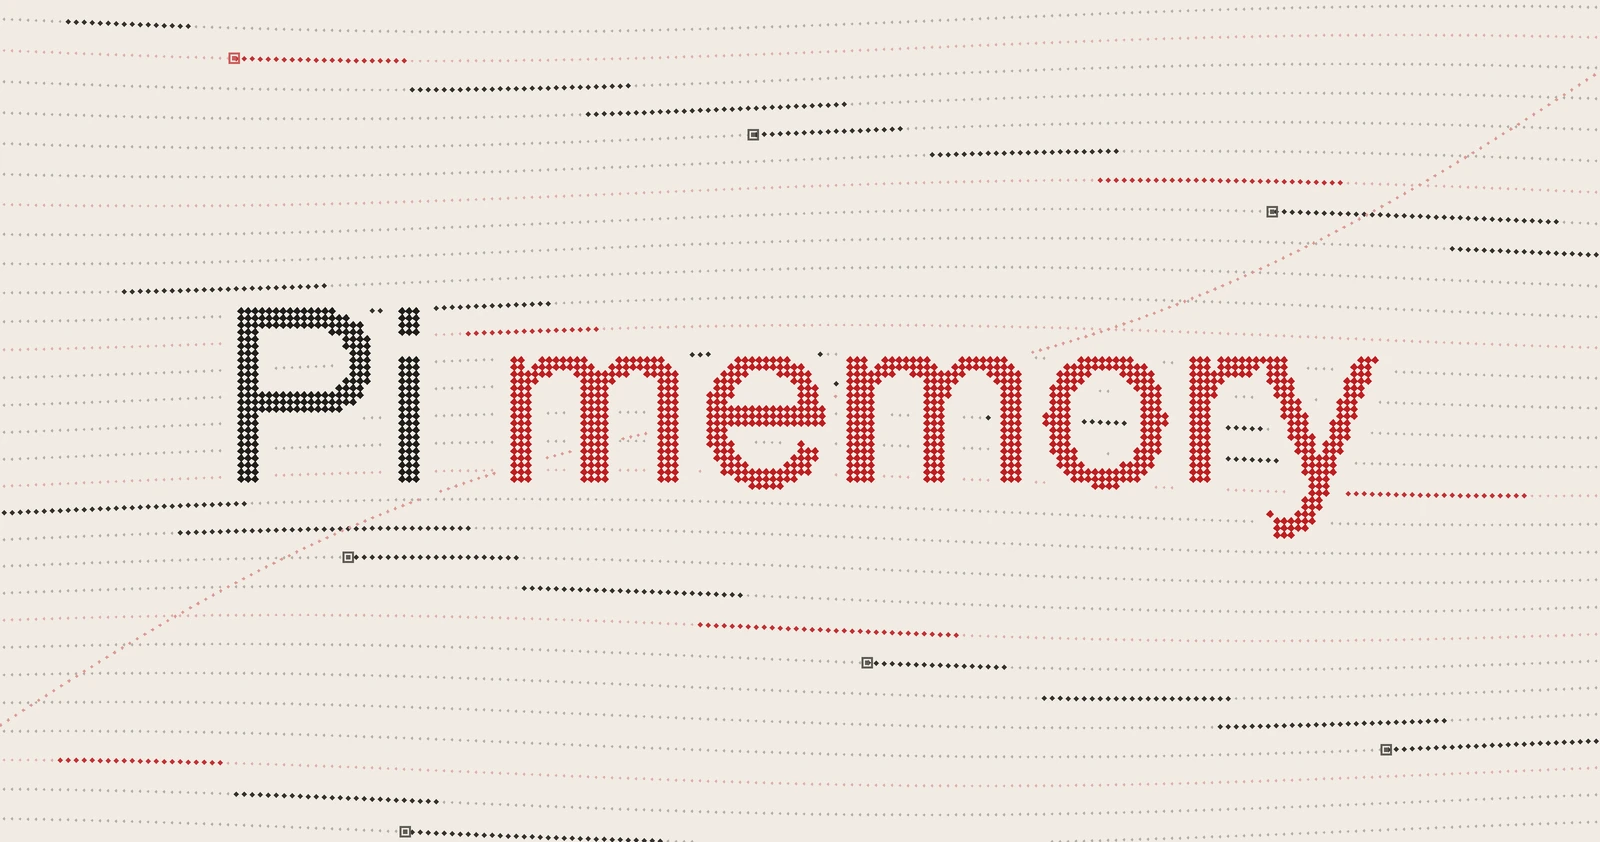
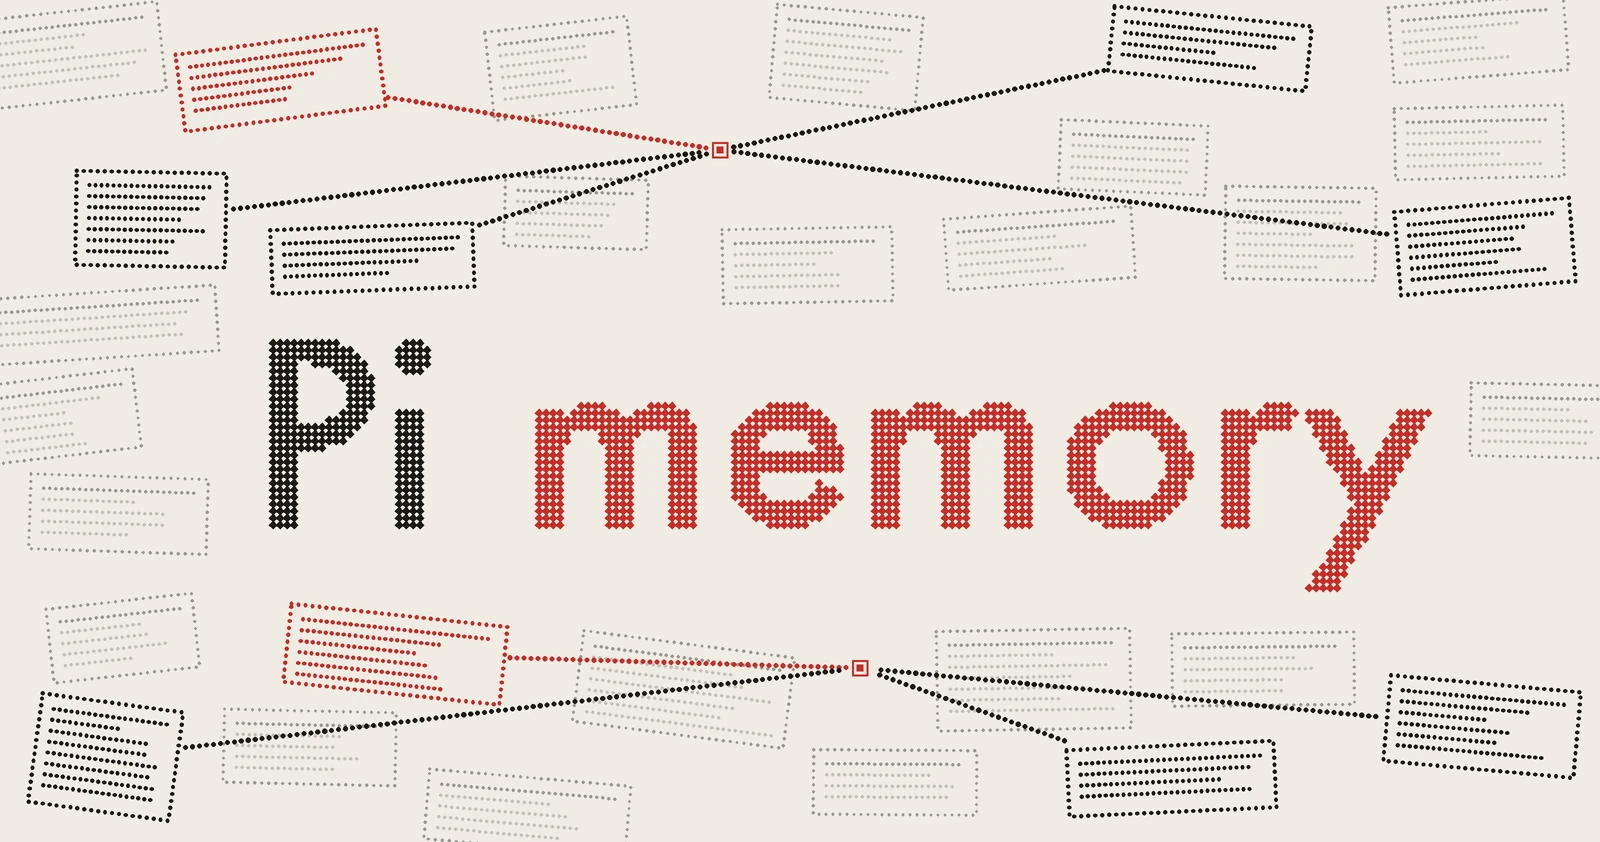
Projects: distinct covers for Outreach CRM and Pi memory
Both reused the horizontal dotted-rule background of the cu25 and QuickFi
banners. Same style (cream, diamond-dot Futura wordmark, ink/red/grey,
square markers), new designs:

- Outreach: dashed rings radiate from the "o"; red dotted lines run out to
  answered contacts, ink lines to ones still waiting.
- Pi memory: large tilted index cards; two query points, one above the word
  and one below, each returning its own records, the strongest in red.

Same 1600x842 WebP at the same paths, so no code change.

diff --git a/tasks/outreach-crm-post.md b/tasks/outreach-crm-post.md
@@ -50,6 +50,22 @@ in `src/lib/work.ts`, illustrated only with the CRM's demo workspace. No persona
   Branch `outreach-crm-meeting-brief`. Verified: tsc, lint, build; section renders and shows in
   the page contents.
 
+- 2026-10-28: Morgan asked for more distinct covers on outreach-crm and pi-memory. Both reused the
+  horizontal dotted-rule background of `cu25 reckon` and QuickFi. Kept the wordmarks, palette and
+  diamond dots; new backgrounds: outreach is a contact network, with red paths reaching out to
+  checked contacts, and pi-memory is a memory lattice of record blocks, with a topic index on the
+  left and dotted recall paths into the hit records. Same 1600×842 WebP at the same paths, so no
+  code change. Rendered with a throwaway PIL script (Futura Medium, seeded), kept out of the repo.
+- 2026-10-28: Morgan asked for options. Showed three motifs per cover (outreach: network, signal,
+  pipeline; pi-memory: lattice, index cards, session timeline), then three takes on the chosen
+  "signal" and "index cards" motifs. Final picks, installed at the same paths:
+  - outreach: dashed rings radiate from the "o"; red dotted lines run out to answered contacts
+    (checked squares), ink lines to ones still waiting, grey squares for the rest.
+  - pi-memory: large tilted index cards (dotted outline, title line, ragged text lines); two red
+    query squares, one above the word and one below, each returning its own set of cards, the
+    strongest in red and the rest in ink. Morgan asked for the second web after seeing one.
+  Same throwaway PIL scripts, same scratchpad; not in the repo.
+
 ## Open questions
 
 - The drafts screenshot's own intro text mentions "LinkedIn Auto-send". Left as is; retake or crop
